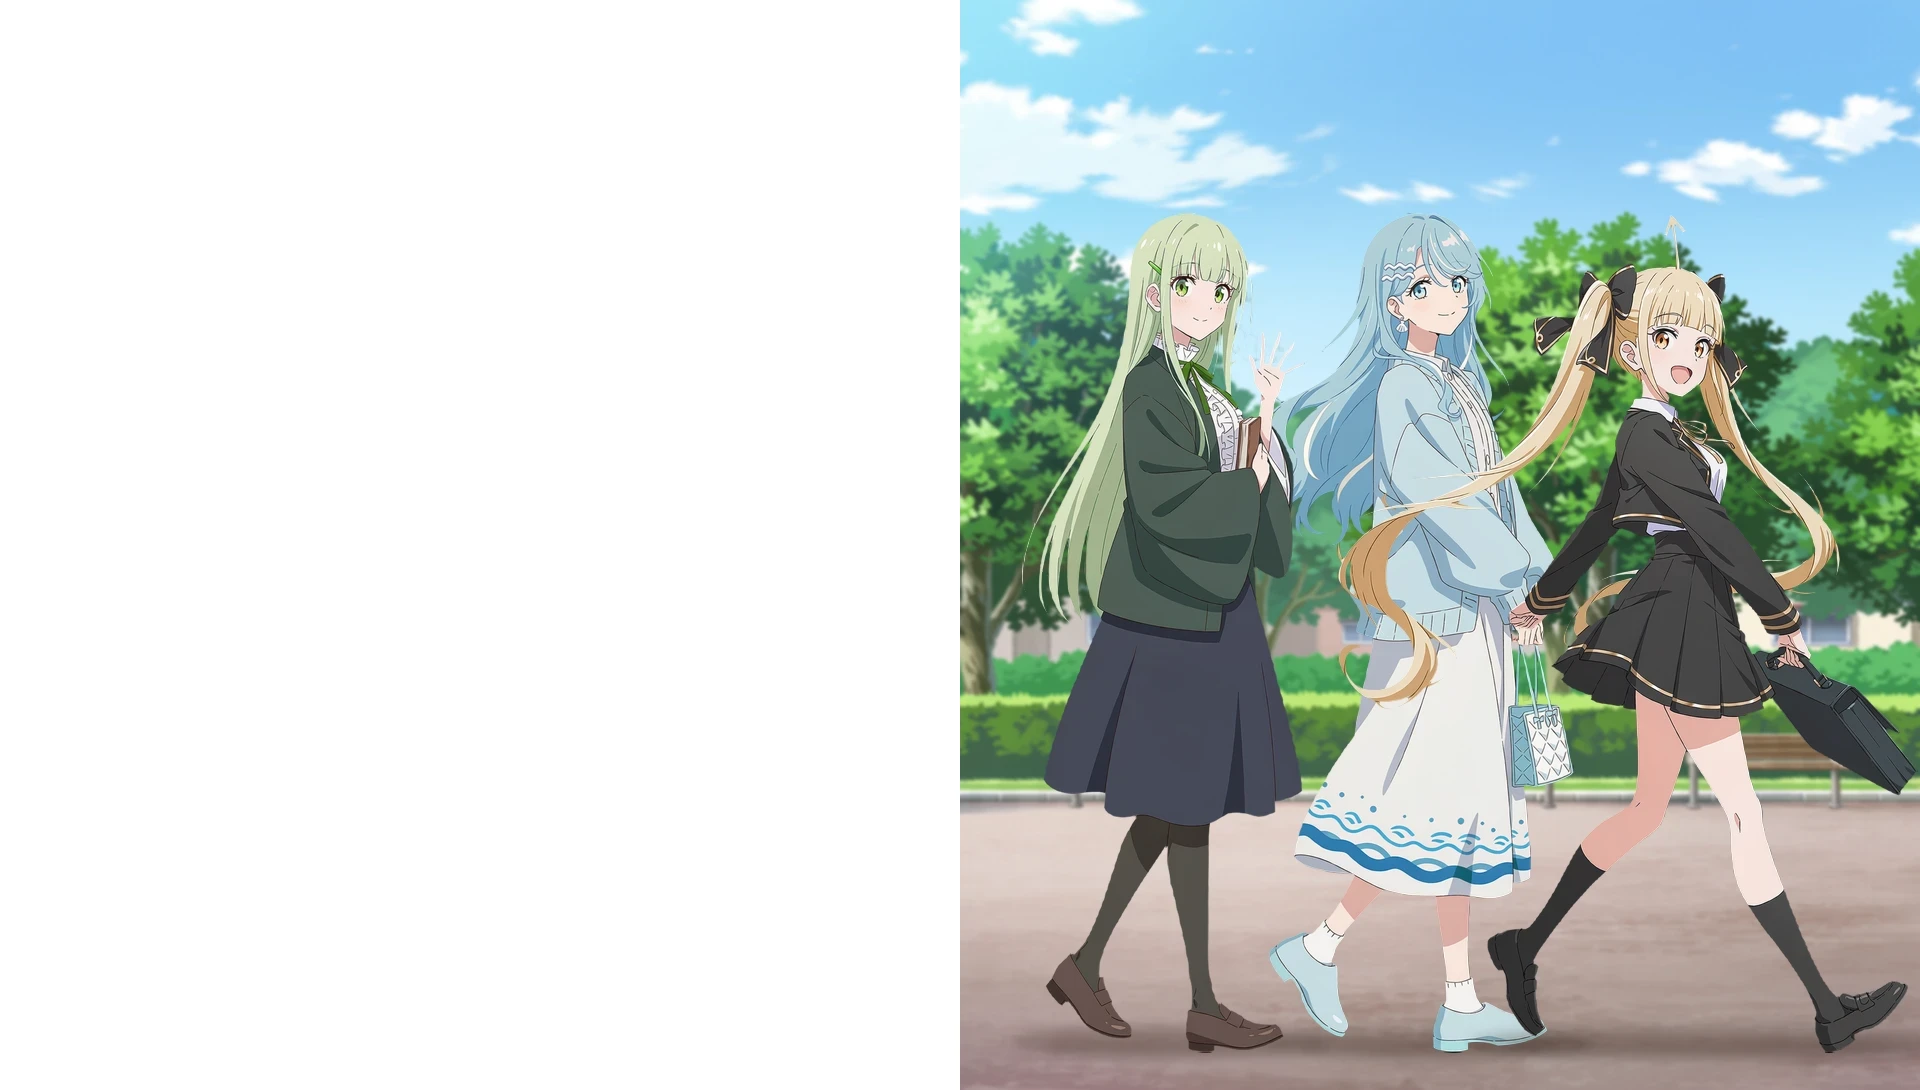
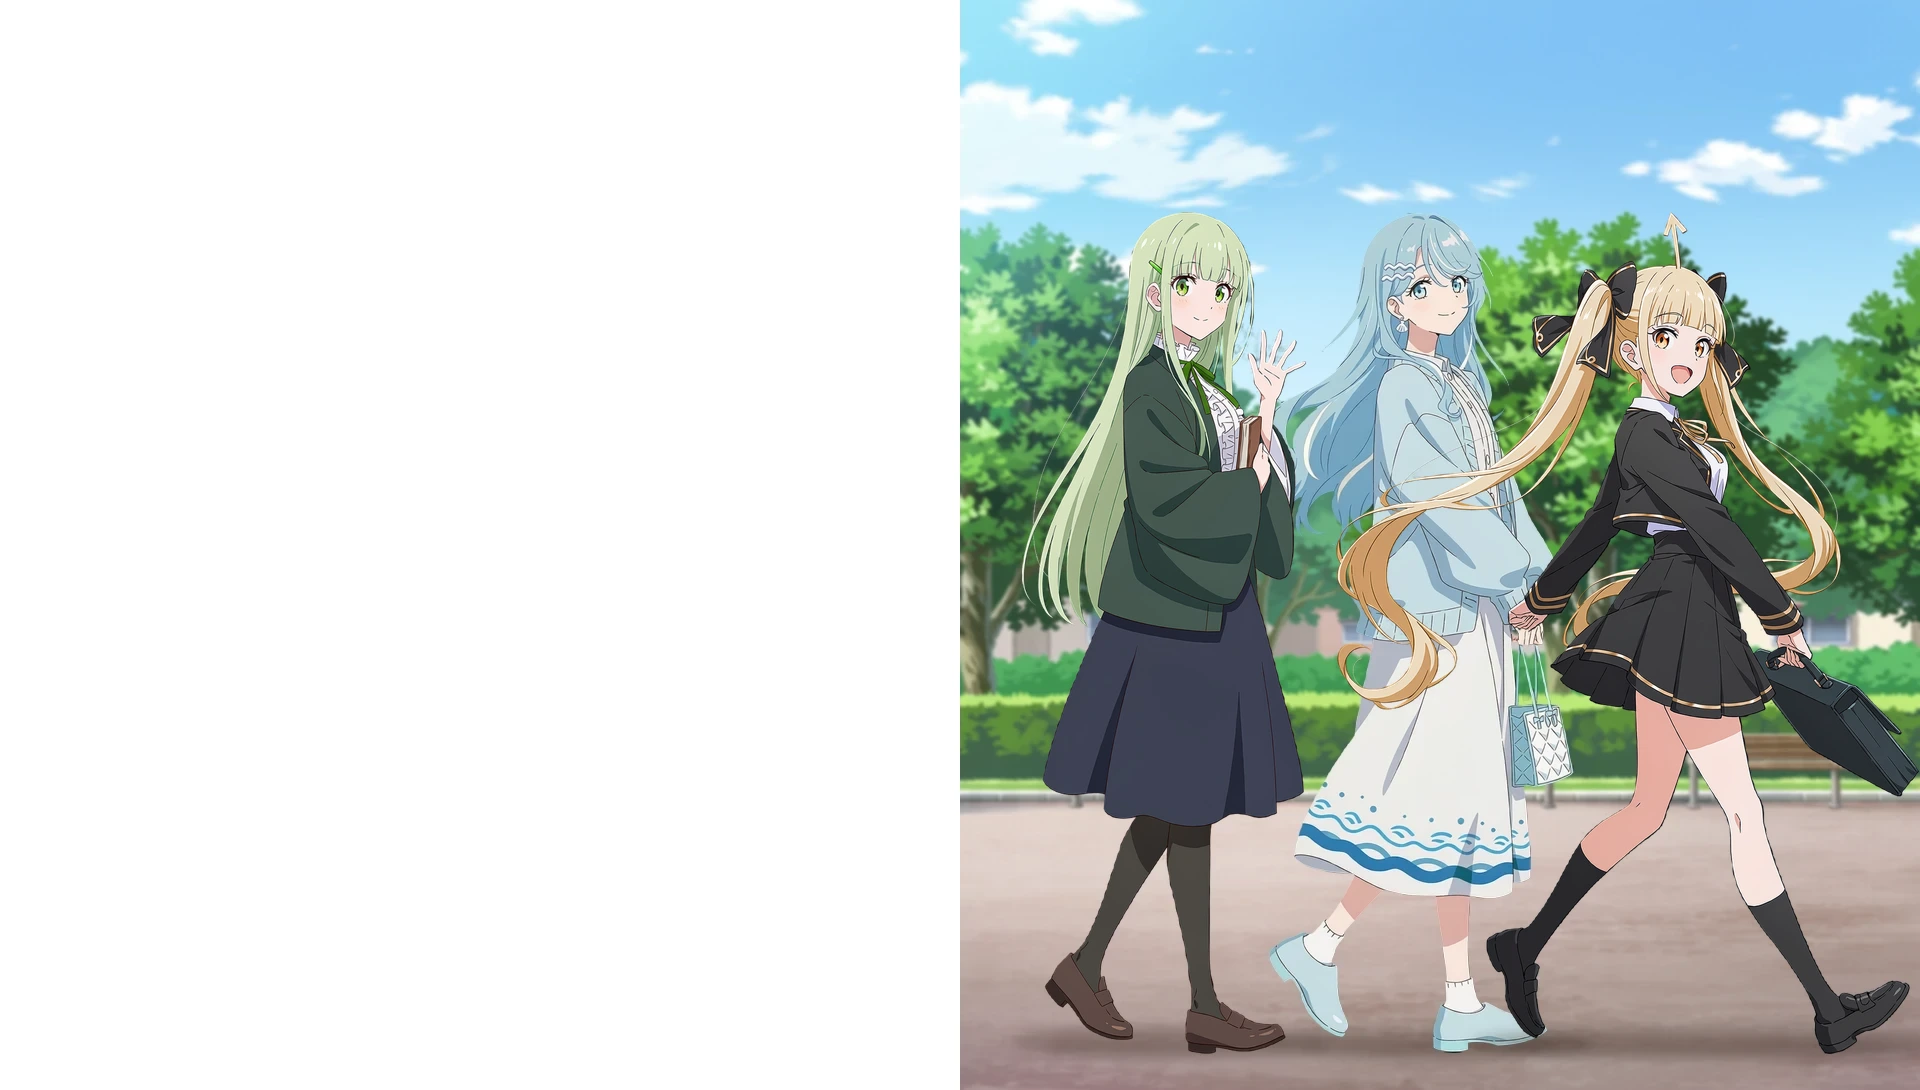
TOP slide: retouched walk trio (Ume's hand, Tren's twin tails)

diff --git a/index.html b/index.html
@@ -278,7 +278,7 @@
 <div class="hslider" id="hslider" aria-roledescription="carousel" aria-label="HAMA EA の紹介">
  <div class="hs-track">
   <a class="hs-slide hs-top is-on" href="story.html" style="--c:#a8781a;--c2:#d9b54a" aria-roledescription="slide" aria-label="1 / 5">
-   <img class="tw-img" src="img/chara/top_walk_trio.webp?v=20261125" alt="公園の道を歩いて学園へ向かう、うめちゃん・なみ・トレン">
+   <img class="tw-img" src="img/chara/top_walk_trio.webp?v=20261128b" alt="公園の道を歩いて学園へ向かう、うめちゃん・なみ・トレン">
    <div class="wrap hs-in tw-in">
     <img class="tb-logo" src="img/hama_logo.svg" alt="HAMA">
     <h1 class="tb-title"><span class="g">HAMA EA学園</span></h1>
